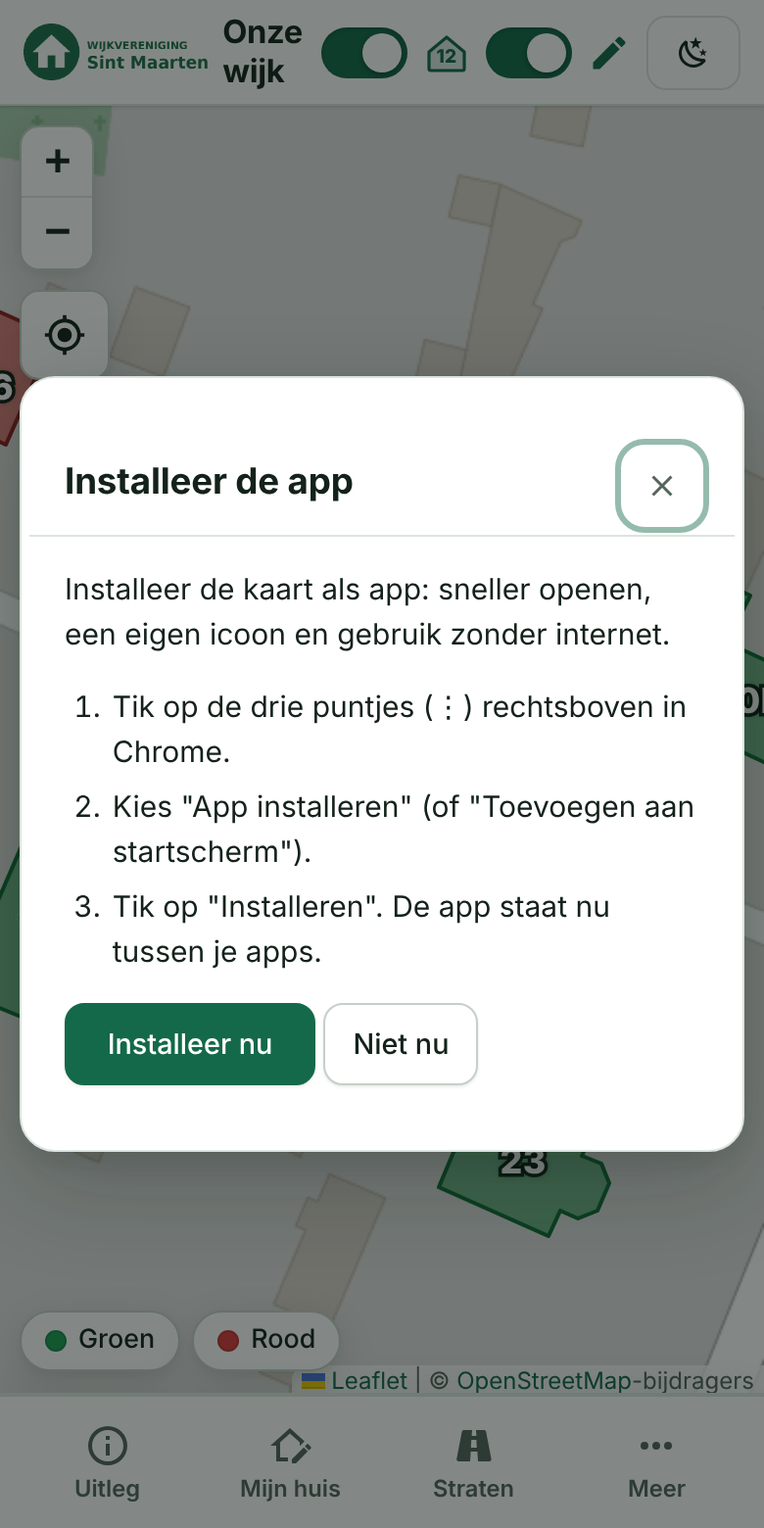
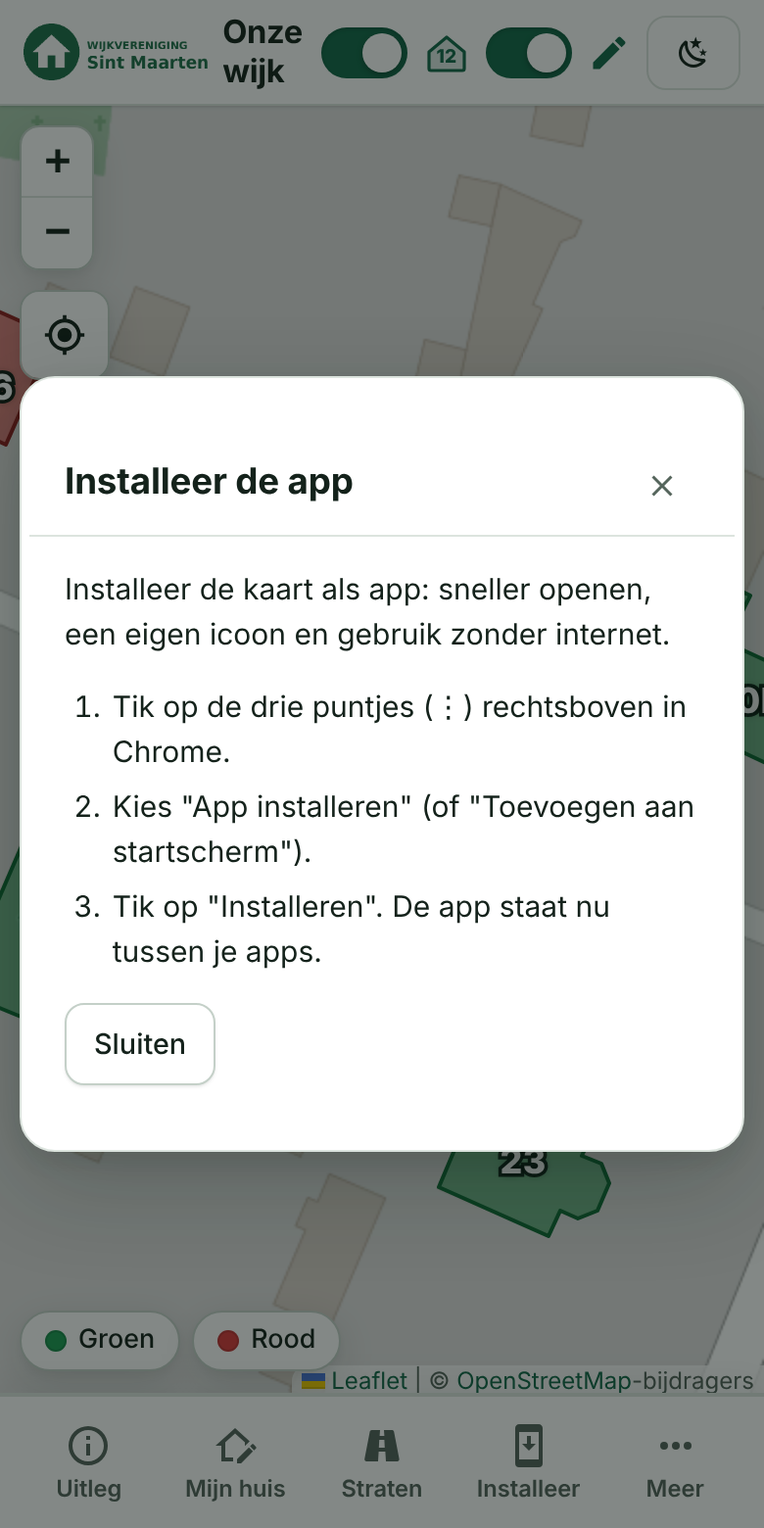
Installeren: knop in de menubalk in plaats van een popup
De melding "Installeer de app" opende bij het eerste bezoek vanzelf. Nu staat er
een knop "Installeer" in de menubalk, zolang de app niet geïnstalleerd is. In de
geïnstalleerde app (display-mode standalone) en na het installeren verdwijnt hij.

- Android, Windows en andere browsers met een installatieprompt: de knop start
  de installatie meteen; kan dat niet, dan opent het venster met de stappen.
- iPhone/iPad: de knop opent het venster met de stappen en "Installeer nu"
  opent het deelvenster.
- Safari op macOS en Firefox kunnen niet via de pagina installeren: geen knop.
- Het venster heet nu "Sluiten" in plaats van "Niet nu" en toont "Installeer nu"
  alleen als daar iets mee te starten valt.
- locate.js hoeft de installatiemelding niet meer af te wachten; de signalering
  (locateSettled) is verwijderd.
- Onderbalk op telefoon: iets minder horizontale padding, zodat vijf knoppen
  passen zonder dat "Mijn huis" afbreekt.
- README (nl en en), screenshots en tools/screenshots.js bijgewerkt.

Claude-Session: https://claude.ai/code/session_01KSdu53R4dH46tib61mqt2t

diff --git a/public/js/pwa.js b/public/js/pwa.js
@@ -1,19 +1,18 @@
-// PWA: service worker registreren en de eenmalige melding "Installeer de app" met stappen per platform.
+// PWA: service worker registreren en de knop "Installeer app" in de menubalk.
 (function () {
   if ('serviceWorker' in navigator) {
     window.addEventListener('load', () => navigator.serviceWorker.register('/sw.js').catch(() => {}));
   }
 
-  // Eenmalig (per apparaat) een melding om de app te installeren: Android, iOS en Windows.
-  // Volgorde bij het eerste bezoek: uitleg, dan de locatievraag, dan deze melding.
-  // De melding heeft een knop "Installeer nu" die het installeren start, plus de stappen voor het platform.
-  const KEY = 'sm-install-asked';
+  // Er opent niets vanzelf: wie de app nog niet geïnstalleerd heeft, ziet de knop #install-btn in de menubalk. In de
+  // geïnstalleerde app zelf (en na het installeren) verdwijnt hij. De knop komt op Android, iOS en Windows (Chrome/Edge)
+  // en in elke andere browser die zelf een installatieprompt aanbiedt (bijv. Chrome op macOS of Linux).
   const ua = navigator.userAgent;
-  const standalone = () => window.matchMedia('(display-mode: standalone)').matches || window.matchMedia('(display-mode: fullscreen)').matches || navigator.standalone === true;
+  const modes = ['standalone', 'fullscreen'].map((m) => window.matchMedia(`(display-mode: ${m})`));
+  const standalone = () => modes.some((m) => m.matches) || navigator.standalone === true;
   const isIos = /iphone|ipad|ipod/i.test(ua) || (/macintosh/i.test(ua) && navigator.maxTouchPoints > 1);
   const platform = isIos ? 'ios' : /android/i.test(ua) ? 'android' : /windows/i.test(ua) && /chrome|edg/i.test(ua) ? 'windows' : null; // Windows: alleen Chrome/Edge kunnen installeren
-  const asked = () => { try { return localStorage.getItem(KEY) === '1'; } catch { return false; } };
-  const markAsked = () => { try { localStorage.setItem(KEY, '1'); } catch {} };
+  const guide = platform || 'windows'; // uitleg voor andere desktopbrowsers met installatieprompt: dezelfde als voor Chrome/Edge op Windows
 
   const STEPS = {
     ios: [
@@ -39,64 +38,65 @@
     windows: 'Installeer de kaart als app: sneller openen, een eigen icoon en gebruik zonder internet.',
   };
 
-  let deferred = null, shown = false;
-  const t0 = Date.now();
+  let deferred = null; // installatieprompt van de browser; kan maar één keer gebruikt worden
+  let offered = false; // de browser heeft installeren aangeboden (blijft waar als de prompt is weggeklikt)
+  let installed = false; // zojuist geïnstalleerd, terwijl deze pagina nog open staat
   const $ = (id) => document.getElementById(id);
 
-  // "Installeer nu" start het installatieproces: met de installatieprompt van de browser (Android, Windows) direct,
-  // op iOS via het deelvenster (daar staat "Zet in beginscherm" in). De stappen blijven zichtbaar zolang de
-  // browser zelf niet kan installeren, ook als terugval wanneer het deelvenster of de prompt niet opent.
-  async function install() {
+  function sync() {
+    const btn = $('install-btn');
+    if (btn) btn.hidden = installed || standalone() || !(platform || offered);
+  }
+
+  // Een klik op de knop: met de installatieprompt van de browser (Android, Windows, desktop) start het installeren meteen.
+  // Anders (iOS, of de prompt is al weggeklikt) opent een venster met de stappen voor het platform.
+  function install() {
     if (deferred) {
       const d = deferred;
       deferred = null;
-      $('install-dialog').close();
-      d.prompt();
-      await d.userChoice.catch(() => {});
-    } else if (platform === 'ios' && navigator.share) {
-      await navigator.share({ title: document.title, url: location.origin + '/' }).catch(() => {});
-    } else {
-      $('install-steps').hidden = false;
-      $('install-steps').scrollIntoView?.({ block: 'nearest' });
+      Promise.resolve(d.prompt()).catch(() => {});
+      return;
     }
-  }
-
-  function open() {
     const dlg = $('install-dialog');
-    $('install-text').textContent = INTRO[platform];
-    const steps = $('install-steps');
-    steps.replaceChildren(...(deferred ? [] : STEPS[platform]).map((t) => Object.assign(document.createElement('li'), { textContent: t })));
-    steps.hidden = !steps.children.length;
-    $('install-x').onclick = $('install-later').onclick = () => dlg.close();
-    $('install-go').onclick = install;
+    if (!dlg || dlg.open) return;
+    $('install-text').textContent = INTRO[guide];
+    $('install-steps').replaceChildren(...STEPS[guide].map((t) => Object.assign(document.createElement('li'), { textContent: t })));
+    $('install-go').hidden = !(platform === 'ios' && navigator.share); // alleen iOS: het deelvenster bevat "Zet in beginscherm"
     dlg.showModal();
   }
 
-  function show() {
-    if (shown || !$('install-dialog') || !platform || standalone() || asked()) return;
-    // wacht tot er geen ander venster (bijv. de uitleg) open staat
-    if (document.querySelector('dialog[open]')) return setTimeout(show, 1500);
-    // daarna de locatievraag van de browser (zie locate.js); één ding tegelijk, met een noodrem van 90 s
-    if (!window.Wijk?.locateSettled && Date.now() - t0 < 90000) return setTimeout(show, 1500);
-    shown = true;
-    markAsked();
-    open();
+  function wire() {
+    const dlg = $('install-dialog');
+    if (dlg) {
+      $('install-x').onclick = $('install-later').onclick = () => dlg.close();
+      // De stappen blijven zichtbaar, ook als het deelvenster niet opent.
+      $('install-go').onclick = () => navigator.share({ title: document.title, url: location.origin + '/' }).catch(() => {});
+    }
+    if ($('install-btn')) $('install-btn').onclick = install;
+    sync();
   }
 
   window.addEventListener('beforeinstallprompt', (e) => {
-    e.preventDefault();
+    e.preventDefault(); // geen mini-infobalk van de browser: de knop in de menubalk is de plek om te installeren
     deferred = e;
-    if ($('install-dialog')?.open) $('install-steps').hidden = true; // melding stond al open: de knop volstaat nu
+    offered = true;
+    sync();
   });
-  window.addEventListener('appinstalled', () => { deferred = null; markAsked(); if ($('install-dialog')?.open) $('install-dialog').close(); });
-  document.addEventListener('DOMContentLoaded', () => { if (platform) setTimeout(show, 3000); });
+  window.addEventListener('appinstalled', () => {
+    deferred = null;
+    installed = true;
+    if ($('install-dialog')?.open) $('install-dialog').close();
+    sync();
+  });
+  modes.forEach((m) => m.addEventListener?.('change', sync));
+  document.addEventListener('DOMContentLoaded', wire);
 
   // offline-indicator
-  function sync() {
+  function syncOffline() {
     const el = document.getElementById('offline');
     if (el) el.hidden = navigator.onLine;
   }
-  window.addEventListener('online', sync);
-  window.addEventListener('offline', sync);
-  document.addEventListener('DOMContentLoaded', sync);
+  window.addEventListener('online', syncOffline);
+  window.addEventListener('offline', syncOffline);
+  document.addEventListener('DOMContentLoaded', syncOffline);
 })();

diff --git a/public/js/locate.js b/public/js/locate.js
@@ -15,13 +15,6 @@
   const FOLLOW_ZOOM = 18; // zoom bij het volgen: huisnummers zijn dan goed leesbaar
   const MAX_ACC_CIRCLE = 500; // m; een nauwkeurigheidscirkel groter dan dit zegt niets bruikbaars
   const PING_MS = 8000; // hoe vaak de eigen positie wordt doorgegeven (en de anderen worden ververst); de server laat 45 s toe
-  // Meldt dat de locatiekeuze van de bezoeker bekend is (toegestaan, geweigerd of niet van toepassing). De installatiemelding
-  // (pwa.js) wacht daarop, zodat de uitleg, de locatievraag en de installatiemelding na elkaar komen en niet door elkaar.
-  function settle() {
-    if (window.Wijk.locateSettled) return;
-    window.Wijk.locateSettled = true;
-    window.dispatchEvent(new Event('sm-locate-settled'));
-  }
   const newId = () => {
     if (crypto.randomUUID) return crypto.randomUUID().replace(/-/g, '');
     return [...crypto.getRandomValues(new Uint8Array(16))].map((b) => b.toString(16).padStart(2, '0')).join('');
@@ -101,7 +94,6 @@
     }
 
     function onFix(pos) {
-      settle();
       const latlng = draw(pos);
       const first = !lastFix;
       lastFix = { lat: pos.coords.latitude, lng: pos.coords.longitude, acc: pos.coords.accuracy || 0 };
@@ -111,7 +103,6 @@
     }
 
     function onError(err) {
-      settle();
       if (err.code === 1) { // toestemming geweigerd: terug naar uit
         if (!silent) toast('Je hebt geen toegang tot je locatie gegeven. Sta locatie toe voor deze site in de instellingen van je browser of telefoon en probeer het opnieuw.');
         stop();
@@ -154,14 +145,14 @@
     }
 
     // Standaard aan: één keer per paginalading proberen, behalve als de bezoeker de locatie zelf uitzette of de browser
-    // de toestemming al geweigerd heeft. Een open venster (uitleg, installatiemelding) gaat voor.
+    // de toestemming al geweigerd heeft. Een open venster (de uitleg) gaat voor.
     async function autoStart() {
       if (autoTried) return;
-      if (!supported() || !window.isSecureContext || watchId !== null || isOff()) return settle();
+      if (!supported() || !window.isSecureContext || watchId !== null || isOff()) return;
       autoTried = true;
-      try { if ((await navigator.permissions?.query({ name: 'geolocation' }))?.state === 'denied') return settle(); } catch { /* geen Permissions API: gewoon proberen */ }
+      try { if ((await navigator.permissions?.query({ name: 'geolocation' }))?.state === 'denied') return; } catch { /* geen Permissions API: gewoon proberen */ }
       const go = () => {
-        if (!control || watchId !== null || isOff()) return settle();
+        if (!control || watchId !== null || isOff()) return;
         if (document.querySelector('dialog[open]')) return setTimeout(go, 1500);
         start(true);
       };
@@ -345,7 +336,6 @@
       setEnabled(on) {
         if (on && supported() && !control) mount();
         if (on && control) autoStart();
-        if (!on || !supported()) settle(); // geen locatie bij deze kaart: er valt niets af te wachten
         if (!on && control) { stop(); unmountCommunity(); control.remove(); control = button = null; }
       },
       // aan: de beheerder heeft de community aangezet; de knop komt er alleen als ook "Mijn locatie" beschikbaar is

diff --git a/tools/screenshots.js b/tools/screenshots.js
@@ -377,18 +377,18 @@ async function main() {
     await ctx.close();
   }
 
-  // ---------- Mijn locatie, community, installatiemelding en de instellingen daarvoor ----------
+  // ---------- Mijn locatie, community, installeren en de instellingen daarvoor ----------
   console.log('locatie en community');
   const HERE = { latitude: 52.02605, longitude: 5.16535, accuracy: 18 };
   const geo = { geolocation: HERE, permissions: ['geolocation'] };
-  const seen = () => { try { localStorage.setItem('sm-intro-seen', 'x'); localStorage.setItem('sm-install-asked', '1'); } catch { /* geen opslag */ } };
+  const seen = () => { try { localStorage.setItem('sm-intro-seen', 'x'); } catch { /* geen opslag */ } };
   // Andere deelnemers van de community (alleen coördinaten, kleur en symbool); ze verlopen na 45 s, dus vlak voor elke foto opnieuw.
   const PEERS = [
     ['screenshot-peer-000000001', 52.02634, 5.16572, '#e67e22', 'dog'], ['screenshot-peer-000000002', 52.02588, 5.16611, '#2980b9', 'bike'],
     ['screenshot-peer-000000003', 52.02641, 5.16506, '#e84393', 'cat'], ['screenshot-peer-000000004', 52.02572, 5.16548, '#00a8a8', ''],
   ];
   const pingPeers = async () => { for (const [id, lat, lng, color, icon] of PEERS) await ap.request.post(`${BASE}/api/community/ping`, { data: { id, lat, lng, acc: 15, color, icon } }); };
-  // Opent de publieke kaart en sluit de uitleg (die staat anders open en houdt de locatie en de installatiemelding tegen).
+  // Opent de publieke kaart en sluit de uitleg (die staat anders open en houdt de locatie tegen).
   const openPublic = async (p) => { await p.goto(`${BASE}/`); await p.waitForSelector('#intro-dialog[open]', { timeout: 5000 }).catch(() => {}); await closeIntro(p); };
   const MIJN_LOCATIE = { viewport: { width: 390, height: 780 }, deviceScaleFactor: 2, isMobile: true, hasTouch: true };
   {
@@ -476,7 +476,7 @@ async function main() {
     await ctx.close();
   }
   await put('/api/admin/settings', { statsPublic: false });
-  // eerste bezoek: de installatiemelding met de stappen per platform
+  // de knop Installeer in de menubalk (er opent niets vanzelf) en het venster met de stappen per platform
   const PLATFORMS = {
     ios: 'Mozilla/5.0 (iPhone; CPU iPhone OS 17_4 like Mac OS X) AppleWebKit/605.1.15 (KHTML, like Gecko) Version/17.4 Mobile/15E148 Safari/604.1',
     android: 'Mozilla/5.0 (Linux; Android 14; Pixel 8) AppleWebKit/537.36 (KHTML, like Gecko) Chrome/124.0.0.0 Mobile Safari/537.36',
@@ -486,7 +486,9 @@ async function main() {
     const ctx = await browser.newContext(ctxOpts({ ...MOBILE, userAgent }));
     const p = await ctx.newPage();
     await openPublic(p);
-    await p.waitForSelector('#install-dialog[open]', { timeout: 20000 });
+    await p.waitForSelector('#install-btn:not([hidden])', { timeout: 5000 });
+    await p.click('#install-btn');
+    await p.waitForSelector('#install-dialog[open]', { timeout: 5000 });
     await p.waitForTimeout(600);
     await shot(p, `installatiemelding-${name}`);
     await ctx.close();

diff --git a/public/index.html b/public/index.html
@@ -50,6 +50,8 @@
     <button id="streets-btn" aria-label="Straten tonen of verbergen" aria-haspopup="dialog" hidden><span class="ico" data-mdi="road-variant"></span><span class="lbl">Straten</span></button>
     <button id="pdf-view" aria-label="PDF bekijken"><span class="ico" data-mdi="file-eye-outline"></span><span class="lbl">PDF bekijken</span></button>
     <button id="pdf-dl" class="primary" aria-label="PDF opslaan"><span class="ico" data-mdi="download"></span><span class="lbl">PDF opslaan</span></button>
+    <!-- Alleen zolang de app niet geïnstalleerd is (zie pwa.js) -->
+    <button id="install-btn" hidden aria-label="Installeer app" title="Installeer de app"><span class="ico" data-mdi="cellphone-arrow-down"></span><span class="lbl">Installeer</span></button>
     <button id="more-btn" hidden aria-haspopup="menu" aria-expanded="false" aria-controls="more-pop" aria-label="Meer"><span class="ico" data-mdi="dots-horizontal"></span><span class="lbl">Meer</span></button>
   </nav>
   <div id="more-pop" class="more-pop" role="menu" aria-label="Meer" hidden></div>
@@ -83,8 +85,8 @@
     <button id="install-x" class="icon-btn" type="button" aria-label="Sluiten"><i data-mdi="close"></i></button>
   </div>
   <p id="install-text"></p>
-  <ol id="install-steps" class="install-steps" hidden></ol>
-  <p><button id="install-go" class="primary">Installeer nu</button> <button id="install-later" type="button">Niet nu</button></p>
+  <ol id="install-steps" class="install-steps"></ol>
+  <p><button id="install-go" class="primary" hidden>Installeer nu</button> <button id="install-later" type="button">Sluiten</button></p>
 </dialog>
 
 <dialog id="code-dialog">

diff --git a/public/js/public.js b/public/js/public.js
@@ -198,7 +198,7 @@
   nums.setVisible($('num-switch').checked);
 
   // bewoners: Mijn huis. In de geïnstalleerde app staat de knop er altijd; in de browser
-  // verschijnt hij na de schakelaar "Bewerken" (dan gaan PDF opslaan en Installeer app naar "Meer").
+  // verschijnt hij na de schakelaar "Bewerken" (dan gaan PDF opslaan en bekijken naar "Meer").
   const residentsOn = data.residentsEnabled !== false;
   const residentReady = Wijk.initResident?.({ map, houses: data.houses, enabled: residentsOn, mode: data.residentsMode, geofence: data.geofence, deviceCode: data.deviceCode, qrOnly: data.qrOnly });
   // QR-code uit de brief: ?q=... meteen uit de adresbalk halen en verwerken
@@ -223,9 +223,9 @@
   document.addEventListener('keydown', (e) => { if (e.key === 'Escape' && !pop.hidden) { closeMore(); moreBtn.focus(); } });
 
   // PDF opslaan/bekijken staan altijd onder "Meer".
-  // In de eenvoudige weergave staan ze juist in de menubalk (naast Uitleg en Mijn huis) en vervalt "Meer".
+  // In de eenvoudige weergave staan ze juist in de menubalk (naast Uitleg en Mijn huis, vóór Installeer app) en vervalt "Meer".
   function layoutMenu() {
-    if (data.simpleUi) { closeMore(); moved.forEach((b) => bar.insertBefore(b, moreBtn)); moreBtn.hidden = true; }
+    if (data.simpleUi) { closeMore(); moved.forEach((b) => bar.insertBefore(b, $('install-btn'))); moreBtn.hidden = true; }
     else { moved.forEach((b) => pop.append(b)); moreBtn.hidden = false; }
   }
   layoutMenu();

diff --git a/public/js/icons.js b/public/js/icons.js
@@ -9,6 +9,7 @@
     "file-eye-outline": "M17,18C17.56,18 18,18.44 18,19C18,19.56 17.56,20 17,20C16.44,20 16,19.56 16,19C16,18.44 16.44,18 17,18M17,15C14.27,15 11.94,16.66 11,19C11.94,21.34 14.27,23 17,23C19.73,23 22.06,21.34 23,19C22.06,16.66 19.73,15 17,15M17,21.5A2.5,2.5 0 0,1 14.5,19A2.5,2.5 0 0,1 17,16.5A2.5,2.5 0 0,1 19.5,19A2.5,2.5 0 0,1 17,21.5M9.27,20H6V4H13V9H18V13.07C18.7,13.15 19.36,13.32 20,13.56V8L14,2H6A2,2 0 0,0 4,4V20A2,2 0 0,0 6,22H10.5C10,21.41 9.59,20.73 9.27,20Z",
     "upload": "M9,16V10H5L12,3L19,10H15V16H9M5,20V18H19V20H5Z",
     "download": "M5,20H19V18H5M19,9H15V3H9V9H5L12,16L19,9Z",
+    "cellphone-arrow-down": "M17,19H7V5H17M17,1H7C5.89,1 5,1.89 5,3V21A2,2 0 0,0 7,23H17A2,2 0 0,0 19,21V3C19,1.89 18.1,1 17,1M11,7V11H8.5L12,14.5L15.5,11H13V7",
     "dots-horizontal": "M16,12A2,2 0 0,1 18,10A2,2 0 0,1 20,12A2,2 0 0,1 18,14A2,2 0 0,1 16,12M10,12A2,2 0 0,1 12,10A2,2 0 0,1 14,12A2,2 0 0,1 12,14A2,2 0 0,1 10,12M4,12A2,2 0 0,1 6,10A2,2 0 0,1 8,12A2,2 0 0,1 6,14A2,2 0 0,1 4,12Z",
     "close": "M19,6.41L17.59,5L12,10.59L6.41,5L5,6.41L10.59,12L5,17.59L6.41,19L12,13.41L17.59,19L19,17.59L13.41,12L19,6.41Z",
     "open-in-new": "M14,3V5H17.59L7.76,14.83L9.17,16.24L19,6.41V10H21V3M19,19H5V5H12V3H5C3.89,3 3,3.9 3,5V19A2,2 0 0,0 5,21H19A2,2 0 0,0 21,19V12H19V19Z",

diff --git a/public/js/lang-en.js b/public/js/lang-en.js
@@ -41,8 +41,8 @@
     "Woon je in de wijk? Dan kun je in deze app zelf de status van jouw huis aanpassen. Tik op \"Mijn huis\", kies jouw huis en geef aan of het wel of niet is bezocht. Een wijziging wordt pas zichtbaar nadat de beheerder die heeft goedgekeurd.": "Do you live in the neighbourhood? In this app you can change the status of your own house yourself. Tap \"My house\", choose your house and indicate whether it has been visited or not. A change only becomes visible after the admin has approved it.",
     "Installeer de app": "Install the app",
     "Installeer nu": "Install now",
-    "Niet nu": "Not now",
     "Installeer app": "Install app",
+    "Installeer": "Install",
     "Zet de kaart op je beginscherm: dan werkt hij als een app, met een eigen icoon en ook zonder internet.": "Put the map on your home screen: it then works like an app, with its own icon and even without internet.",
     "Open deze pagina in Safari.": "Open this page in Safari.",
     "Tik op het deel-icoon (vierkantje met pijl omhoog) onderaan of bovenaan het scherm.": "Tap the share icon (square with an arrow pointing up) at the bottom or top of the screen.",

diff --git a/public/css/public.css b/public/css/public.css
@@ -144,7 +144,7 @@ body.public .mine-badge .mdi { filter: drop-shadow(0 0 3px var(--panel)); }
   body.public .prefs { margin-left: 0; }
   body.public .logo { height: 32px; max-width: 24vw; }
   body.public .actions { gap: 0; padding: 6px 8px calc(6px + env(safe-area-inset-bottom)); background: var(--panel); border-top: 1px solid var(--line); box-shadow: 0 -1px 0 var(--line), 0 -6px 18px rgba(16,32,24,.07); }
-  body.public .actions button { min-height: 52px; gap: 3px; border-radius: 14px; border: 0; background: none; box-shadow: none; color: var(--muted); font-size: .74rem; font-weight: 600; max-width: 160px; }
+  body.public .actions button { min-height: 52px; padding-inline: 3px; gap: 3px; border-radius: 14px; border: 0; background: none; box-shadow: none; color: var(--muted); font-size: .74rem; font-weight: 600; max-width: 160px; }
   body.public .actions button:hover { background: none; }
   body.public .actions button.primary { background: var(--accent-soft); color: var(--accent); }
   body.public .actions button:active { background: var(--accent-soft); transform: none; }

diff --git a/README.en.md b/README.en.md
@@ -24,7 +24,7 @@ An interactive map of the neighbourhood in which every house is **green**, **red
 - Map based on OpenStreetMap (no API key) with coloured areas over the houses; click a house for its note.
 - House numbers on the map (switch), a street filter with green/red counts, and an information window.
 - **PDF** (A4 landscape) with map, legend, totals, logo, explanation and an overview of the marked houses, including date and time.
-- **Installable as an app (PWA)** with its own app icon and **offline** use; on the first visit a prompt with an *Install now* button and the steps per platform helps you. See [Installing as an app](#installing-as-an-app-and-offline-use).
+- **Installable as an app (PWA)** with its own app icon and **offline** use; as long as the app is not installed, there is an *Install* button in the menu bar (no prompt that opens by itself). See [Installing as an app](#installing-as-an-app-and-offline-use).
 - The **overview with totals** (total and per status) is also shown on the front page when the admin switches it on; a button next to light/dark hides or shows the block.
 - Works on phone (menu bar at the bottom, floating status bar) and desktop.
 - **Multilingual** (Dutch and English, can be switched on in the admin area) and a **dark/light mode** with a button at the top right. See [Languages and dark mode](#languages-and-dark-mode).
@@ -88,7 +88,7 @@ Example with random houses (map data © OpenStreetMap contributors).
 
 **Quickly to your house** – with a mouse you double-click a house, on a touchscreen you long-press it (a little over half a second). *Edit* is then switched on (in the browser), the map jumps to the house and change mode starts; if you have not chosen a house yet, the app asks whether it is your house. A double-click outside the houses simply zooms in. In the admin area the same gesture selects the house in select mode.
 
-**My location** – below the zoom buttons is the *My location* button (the crosshair). Your location is **on by default**: when the map opens, the browser asks for permission to use your location (after the explanation has been closed). On a first visit everything comes one after another: first the explanation, then the location question, and only then the install notice. If you allow it, the button switches on (blue), your position appears as a blue dot with a light circle for the accuracy, the map zooms to you and follows you as you walk. Without permission the map stays as it was and no message follows. If you move the map yourself, following stops (the dot stays) and a tap on the button takes you back; one more tap on the next state turns the location off. If you turn the location off yourself, it no longer starts by itself on that device (only that choice is remembered, in the browser); a tap on the button turns it back on. While the location is on the screen stays awake, so you do not have to keep unlocking your phone while walking (if your browser supports it; otherwise the screen simply dims, and it is requested again when you return to the page). Your position stays on your phone: it is never stored or sent anywhere, unless you choose to share it with the Community (see below). Showing your location only works over **https**. The administrator can hide the button, and with it the location (see *Config*).
+**My location** – below the zoom buttons is the *My location* button (the crosshair). Your location is **on by default**: when the map opens, the browser asks for permission to use your location (after the explanation has been closed). On a first visit the explanation comes first, followed by the location question. If you allow it, the button switches on (blue), your position appears as a blue dot with a light circle for the accuracy, the map zooms to you and follows you as you walk. Without permission the map stays as it was and no message follows. If you move the map yourself, following stops (the dot stays) and a tap on the button takes you back; one more tap on the next state turns the location off. If you turn the location off yourself, it no longer starts by itself on that device (only that choice is remembered, in the browser); a tap on the button turns it back on. While the location is on the screen stays awake, so you do not have to keep unlocking your phone while walking (if your browser supports it; otherwise the screen simply dims, and it is requested again when you return to the page). Your position stays on your phone: it is never stored or sent anywhere, unless you choose to share it with the Community (see below). Showing your location only works over **https**. The administrator can hide the button, and with it the location (see *Config*).
 
 <table>
 <tr><td align="center" valign="top"><a href="docs/screenshots/mijn-locatie-mobiel.png"><img src="docs/screenshots/mijn-locatie-mobiel.png" width="220" alt="My location: blue dot with accuracy circle"></a><br><sub>My location: blue dot with accuracy circle</sub></td></tr>
@@ -270,15 +270,14 @@ The admin area (`/beheer`) can also be installed as its own app, with its own da
 ## Installing as an app and offline use
 
 <table>
-<tr><td align="center" valign="top"><a href="docs/screenshots/installatiemelding-ios.png"><img src="docs/screenshots/installatiemelding-ios.png" width="220" alt="Install prompt on iPhone/iPad"></a><br><sub>Install prompt on iPhone/iPad</sub></td><td align="center" valign="top"><a href="docs/screenshots/installatiemelding-android.png"><img src="docs/screenshots/installatiemelding-android.png" width="220" alt="Install prompt on Android"></a><br><sub>Install prompt on Android</sub></td></tr>
+<tr><td align="center" valign="top"><a href="docs/screenshots/installatiemelding-ios.png"><img src="docs/screenshots/installatiemelding-ios.png" width="220" alt="Installing on iPhone/iPad"></a><br><sub>Installing on iPhone/iPad</sub></td><td align="center" valign="top"><a href="docs/screenshots/installatiemelding-android.png"><img src="docs/screenshots/installatiemelding-android.png" width="220" alt="Installing on Android"></a><br><sub>Installing on Android</sub></td></tr>
 </table>
 
-- **First visit (iPhone/iPad, Android and Windows with Chrome/Edge)**: you get a **one-time** prompt *Install the app* (remembered per device) with an **Install now** button that starts the installation, plus instructions per platform:
-  - **iPhone/iPad (Safari)**: *Install now* opens the share sheet; choose *Add to Home Screen* → *Add*.
-  - **Android (Chrome)**: *Install now* starts the browser's installation; if that is not possible, the steps are shown (menu ⋮ → *Install app*).
-  - **Windows (Chrome/Edge)**: *Install now* starts the browser's installation; otherwise use the install icon in the address bar or the menu → *Install app* (Edge: *Apps* → *Install this site as an app*).
-  - With *Not now* you close the prompt; you can still install later via the browser menu.
-- On the very first visit the messages come one after the other: first the explanation, then the location question, then the install prompt.
+- **The *Install* button in the menu bar**: as long as the app is not installed, the menu bar has an **Install** button (a phone with an arrow). Nothing opens by itself. Once the app is installed and you open it as an app, the button disappears. It is there on iPhone/iPad, Android and Windows (Chrome/Edge), and in any other browser that offers installing itself (for example Chrome on macOS or Linux):
+  - **Android (Chrome), Windows and other desktop browsers**: the button starts the browser's installation right away. If that is not possible (for example because you just dismissed the browser's question), a window with the steps opens: menu ⋮ → *Install app*; on Windows the install icon in the address bar or the menu → *Install app* (Edge: *Apps* → *Install this site as an app*).
+  - **iPhone/iPad (Safari)**: the button opens a window with the steps. *Install now* in that window opens the share sheet; choose *Add to Home Screen* → *Add*.
+  - Safari on macOS and Firefox cannot install from the page; the button is not shown there.
+  - If you open the website in the browser while the app is already installed, the button is still shown (the browser does not tell the page); open the app itself instead.
 - **Offline**: the app stores itself, the last known map data, the logo and the map tiles of the neighbourhood (and the PDF section).
   Without a connection you see the last known state (with the message *Offline*), and the PDF can still be made. Only the admin area always requires a connection.
 - This only works over **HTTPS** (see `ORIGIN`). After an update of the site the app fetches the new version on the next visit.

diff --git a/README.md b/README.md
@@ -22,7 +22,7 @@ Een interactieve kaart van de wijk waarop elk huis **groen**, **rood** of **niet
 - Kaart op basis van OpenStreetMap (geen API-sleutel) met gekleurde vlakken over de huizen; klik op een huis voor de notitie.
 - Huisnummers op de kaart (schakelaar), straten-filter met tellingen groen/rood, en een uitleg- en infovenster.
 - **PDF** (A4 liggend) met kaart, legenda, aantallen, logo, uitleg en een overzicht van de gemarkeerde huizen, inclusief datum en tijd.
-- **Installeerbaar als app (PWA)** met eigen app-icoon en **offline** gebruik; bij het eerste bezoek helpt een melding met een knop *Installeer nu* en de stappen per platform. Zie [Installeren als app](#installeren-als-app-en-offline-gebruik).
+- **Installeerbaar als app (PWA)** met eigen app-icoon en **offline** gebruik; zolang de app niet geïnstalleerd is, staat er een knop *Installeer* in de menubalk (geen melding die vanzelf opent). Zie [Installeren als app](#installeren-als-app-en-offline-gebruik).
 - Het **overzicht met aantallen** (totaal en per status) staat, als de beheerder dat aanzet, ook op de voorpagina; een knop naast licht/donker verbergt of toont het blok.
 - Werkt op telefoon (menubalk onderin, zwevend statusbalkje) en desktop.
 - **Meertalig** (Nederlands en Engels, in te schakelen in het beheer) en een **donkere/lichte weergave** met een knop rechtsboven. Zie [Talen en donkere weergave](#talen-en-donkere-weergave).
@@ -86,7 +86,7 @@ Voorbeeld met willekeurige huizen (kaartgegevens © OpenStreetMap-bijdragers).
 
 **Snel naar jouw huis** – met een muis dubbelklik je op een huis, op een touchscreen druk je er lang op (ruim een halve seconde). Dan gaat *Bewerken* aan (in de browser), springt de kaart naar het huis en start de wijzigmodus; heb je nog geen huis gekozen, dan vraagt de app of het jouw huis is. Een dubbelklik buiten de huizen zoomt gewoon in. In het beheer selecteert hetzelfde gebaar het huis in de selecteermodus.
 
-**Mijn locatie** – onder de zoomknoppen staat de knop *Mijn locatie* (het richtkruis). De locatie staat **standaard aan**: bij het openen van de kaart vraagt de browser om toestemming (nadat de uitleg is gesloten). Bij het eerste bezoek komt alles na elkaar: eerst de uitleg, dan de locatievraag, en pas daarna de installatiemelding. Geef je die, dan schakelt de knop in (blauw), verschijnt je positie als blauwe stip met een lichte cirkel voor de nauwkeurigheid, zoomt de kaart naar je toe en volgt hij je terwijl je loopt. Zonder toestemming blijft de kaart zoals hij was en volgt er geen melding. Schuif je de kaart zelf weg, dan stopt het volgen (de stip blijft) en brengt een tik op de knop je terug; nog een tik op de volgende stand zet de locatie uit. Wie de locatie zelf uitzet, krijgt hem op dat apparaat niet meer vanzelf aan (alleen die keuze wordt onthouden, in de browser); een tik op de knop zet hem weer aan. Zolang de locatie aan staat blijft het scherm aan, zodat je de telefoon tijdens het lopen niet steeds hoeft te ontgrendelen (als je browser dat ondersteunt; anders dimt het scherm gewoon, en na terugkeren naar de pagina wordt het opnieuw aangevraagd). Je positie blijft op je telefoon: ze wordt nergens opgeslagen of verstuurd, behalve als je zelf kiest voor delen met de Community (zie hieronder). Het tonen van je locatie werkt alleen via **https**. De beheerder kan de knop, en daarmee de locatie, verbergen (zie *Config*).
+**Mijn locatie** – onder de zoomknoppen staat de knop *Mijn locatie* (het richtkruis). De locatie staat **standaard aan**: bij het openen van de kaart vraagt de browser om toestemming (nadat de uitleg is gesloten). Bij het eerste bezoek komt eerst de uitleg en daarna de locatievraag. Geef je die, dan schakelt de knop in (blauw), verschijnt je positie als blauwe stip met een lichte cirkel voor de nauwkeurigheid, zoomt de kaart naar je toe en volgt hij je terwijl je loopt. Zonder toestemming blijft de kaart zoals hij was en volgt er geen melding. Schuif je de kaart zelf weg, dan stopt het volgen (de stip blijft) en brengt een tik op de knop je terug; nog een tik op de volgende stand zet de locatie uit. Wie de locatie zelf uitzet, krijgt hem op dat apparaat niet meer vanzelf aan (alleen die keuze wordt onthouden, in de browser); een tik op de knop zet hem weer aan. Zolang de locatie aan staat blijft het scherm aan, zodat je de telefoon tijdens het lopen niet steeds hoeft te ontgrendelen (als je browser dat ondersteunt; anders dimt het scherm gewoon, en na terugkeren naar de pagina wordt het opnieuw aangevraagd). Je positie blijft op je telefoon: ze wordt nergens opgeslagen of verstuurd, behalve als je zelf kiest voor delen met de Community (zie hieronder). Het tonen van je locatie werkt alleen via **https**. De beheerder kan de knop, en daarmee de locatie, verbergen (zie *Config*).
 
 <table>
 <tr><td align="center" valign="top"><a href="docs/screenshots/mijn-locatie-mobiel.png"><img src="docs/screenshots/mijn-locatie-mobiel.png" width="220" alt="Mijn locatie: blauwe stip met nauwkeurigheidscirkel"></a><br><sub>Mijn locatie: blauwe stip met nauwkeurigheidscirkel</sub></td></tr>
@@ -268,14 +268,14 @@ Ook het beheer (`/beheer`) is te installeren als eigen app, met een eigen donker
 ## Installeren als app en offline gebruik
 
 <table>
-<tr><td align="center" valign="top"><a href="docs/screenshots/installatiemelding-ios.png"><img src="docs/screenshots/installatiemelding-ios.png" width="220" alt="Installatiemelding op iPhone/iPad"></a><br><sub>Installatiemelding op iPhone/iPad</sub></td><td align="center" valign="top"><a href="docs/screenshots/installatiemelding-android.png"><img src="docs/screenshots/installatiemelding-android.png" width="220" alt="Installatiemelding op Android"></a><br><sub>Installatiemelding op Android</sub></td></tr>
+<tr><td align="center" valign="top"><a href="docs/screenshots/installatiemelding-ios.png"><img src="docs/screenshots/installatiemelding-ios.png" width="220" alt="Installeren op iPhone/iPad"></a><br><sub>Installeren op iPhone/iPad</sub></td><td align="center" valign="top"><a href="docs/screenshots/installatiemelding-android.png"><img src="docs/screenshots/installatiemelding-android.png" width="220" alt="Installeren op Android"></a><br><sub>Installeren op Android</sub></td></tr>
 </table>
 
-- **Eerste bezoek (iPhone/iPad, Android en Windows met Chrome/Edge)**: je krijgt **eenmalig** een melding *Installeer de app* (per apparaat onthouden) met een knop **Installeer nu** die het installeren start, plus uitleg per platform:
-  - **iPhone/iPad (Safari)**: *Installeer nu* opent het deelvenster; kies daarin *Zet in beginscherm* → *Voeg toe*.
-  - **Android (Chrome)**: *Installeer nu* start de installatie van de browser; kan dat niet, dan staan de stappen erbij (menu ⋮ → *App installeren*).
-  - **Windows (Chrome/Edge)**: *Installeer nu* start de installatie van de browser; anders het installeer-icoon in de adresbalk of menu → *App installeren* (Edge: *Apps* → *Deze site als app installeren*).
-  - Met *Niet nu* sluit je de melding; later kan het nog via het browsermenu.
+- **Knop *Installeer* in de menubalk**: zolang de app niet geïnstalleerd is, staat er in de menubalk een knop **Installeer** (een telefoon met een pijl). Er opent niets vanzelf. Is de app geïnstalleerd en open je hem als app, dan verdwijnt de knop. Hij staat op iPhone/iPad, Android en Windows (Chrome/Edge), en in elke andere browser die zelf installeren aanbiedt (bijvoorbeeld Chrome op macOS of Linux):
+  - **Android (Chrome), Windows en andere desktopbrowsers**: de knop start meteen de installatie van de browser. Kan dat niet (bijvoorbeeld omdat je de vraag van de browser net hebt weggeklikt), dan opent een venster met de stappen: menu ⋮ → *App installeren*; op Windows het installeer-icoon in de adresbalk of menu → *App installeren* (Edge: *Apps* → *Deze site als app installeren*).
+  - **iPhone/iPad (Safari)**: de knop opent een venster met de stappen. *Installeer nu* daarin opent het deelvenster; kies *Zet in beginscherm* → *Voeg toe*.
+  - Safari op macOS en Firefox kunnen niet via de pagina installeren; daar staat de knop niet.
+  - Open je de website in de browser terwijl de app al geïnstalleerd is, dan staat de knop er toch (de browser meldt dat niet aan de pagina); open dan de app zelf.
 - **Offline**: de app bewaart zichzelf, de laatst bekende kaartgegevens, het logo en de kaarttegels van het wijkgebied (en de PDF-uitsnede).
   Zonder verbinding zie je de laatst bekende stand (met de melding *Offline*), en de PDF blijft te maken. Alleen het beheer vereist altijd een verbinding.
 - Dit werkt alleen via **HTTPS** (zie `ORIGIN`). Na een update van de site haalt de app de nieuwe versie bij het eerstvolgende bezoek op.
